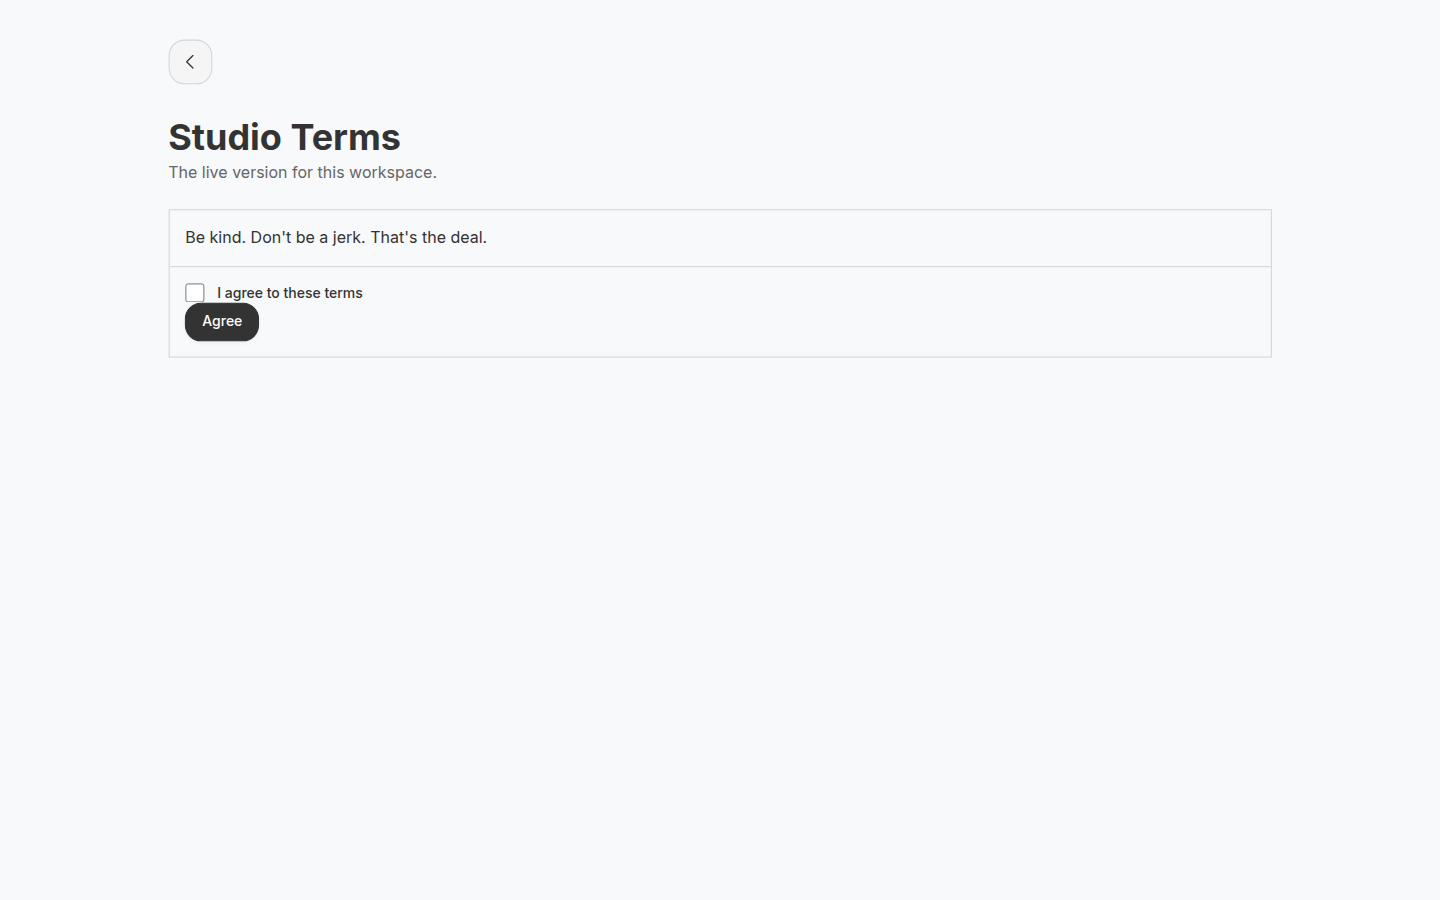
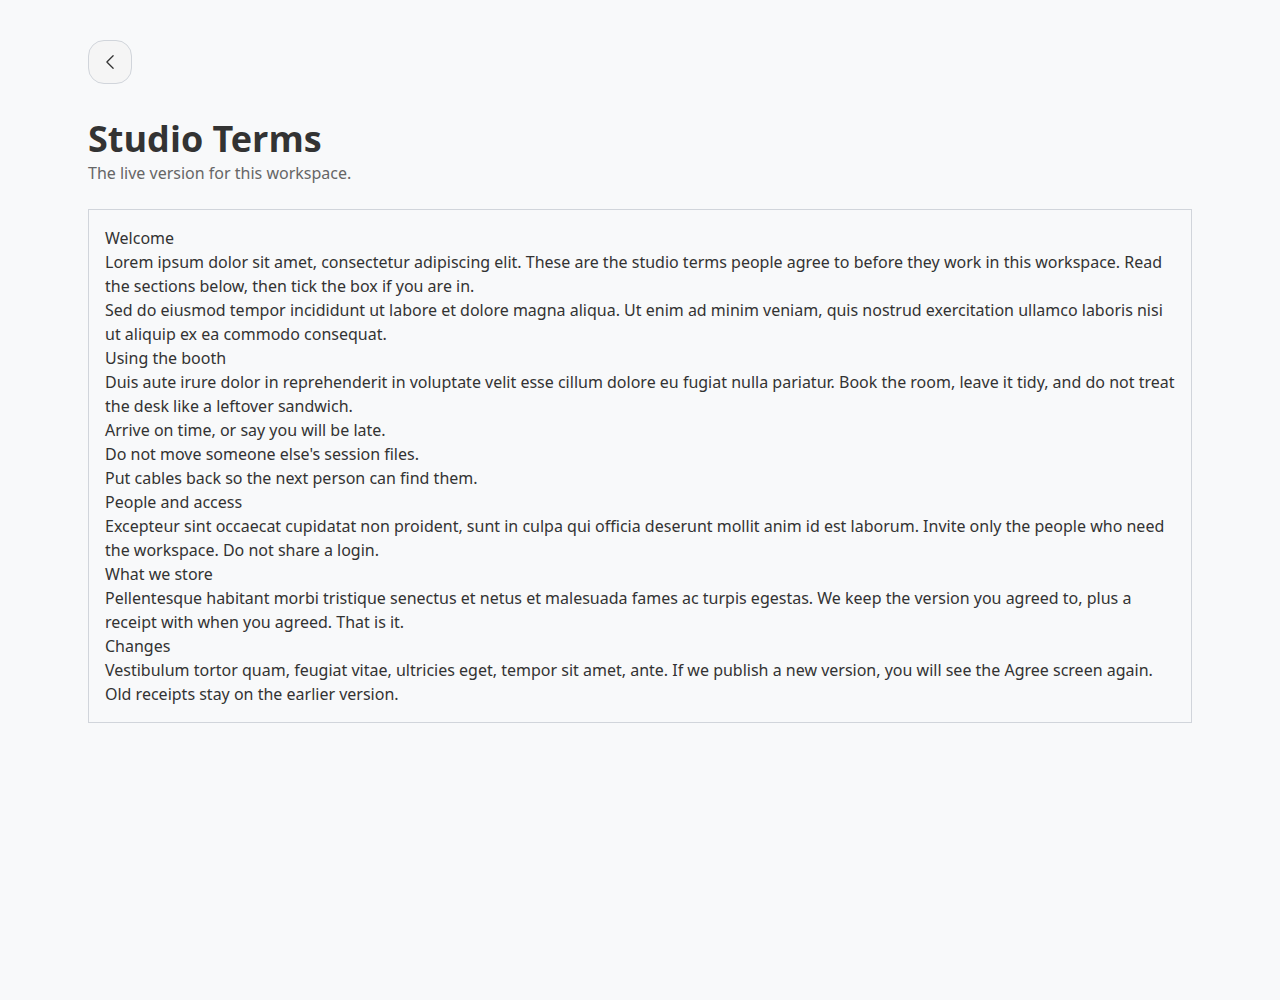
Fix Admin Terms titles in the Flatpack table and refresh demos.
Table cells now use with_content so the Title link is not empty.

Changed region(s): [[0.0625, 0.1244, 0.9375, 0.7156]]

diff --git a/test/dummy/test/integration/admin_terms_test.rb b/test/dummy/test/integration/admin_terms_test.rb
@@ -41,6 +41,9 @@ class AdminTermsTest < ActionDispatch::IntegrationTest
     get recording_studio_terms_and_conditions.admin_terms_path
     assert_response :success
     assert_includes response.body, "Write terms"
+    assert_includes response.body, "Title"
+    assert_includes response.body, "Status"
+    assert_includes response.body, "Agrees"
     assert_select "body[data-recording-studio-default-layout='true']", count: 1
     assert_select "nav[aria-label='Page navigation']", count: 1
     assert_match %r{flat_pack/application}, response.body
@@ -71,6 +74,10 @@ class AdminTermsTest < ActionDispatch::IntegrationTest
     assert_equal "Whisper, please.", recording.reload.recordable.body
     follow_redirect!
     assert_includes response.body, "Terms updated."
+
+    get recording_studio_terms_and_conditions.admin_terms_path
+    assert_response :success
+    assert_includes response.body, "House rules"
   end
 
   test "admin section registers terms coverage widgets" do

diff --git a/docs/demo/MANIFEST.md b/docs/demo/MANIFEST.md
@@ -6,8 +6,11 @@
 | `tnc-clickwrap-demo.mp4.b64` | Full base64 of the mp4 (over GitHub contents 1MB — use the parts) |
 | `tnc-clickwrap-demo.mp4.b64.part1` / `.part2` | Split base64, each under 800_000 chars |
 | `tnc-clickwrap-demo.mp4.b64.manifest` | original_bytes, sha256, ordered part paths |
-| `tnc-agree.png` | Still of Studio Terms with the checkbox unchecked |
+| `tnc-agree.png` | Still of Studio Terms (multi-section sample body) |
 | `tnc-agree.png.b64` | Base64 of the still |
+| `tnc-agree-helper.png` | Dummy `/agree_helper` page + in-form mounts |
+| `tnc-admin-terms.png` | Admin Terms Flatpack table |
+| `tnc-admin-richtext.png` | Admin edit TipTap body |
 
 Rebuild the mp4 from parts:
 
